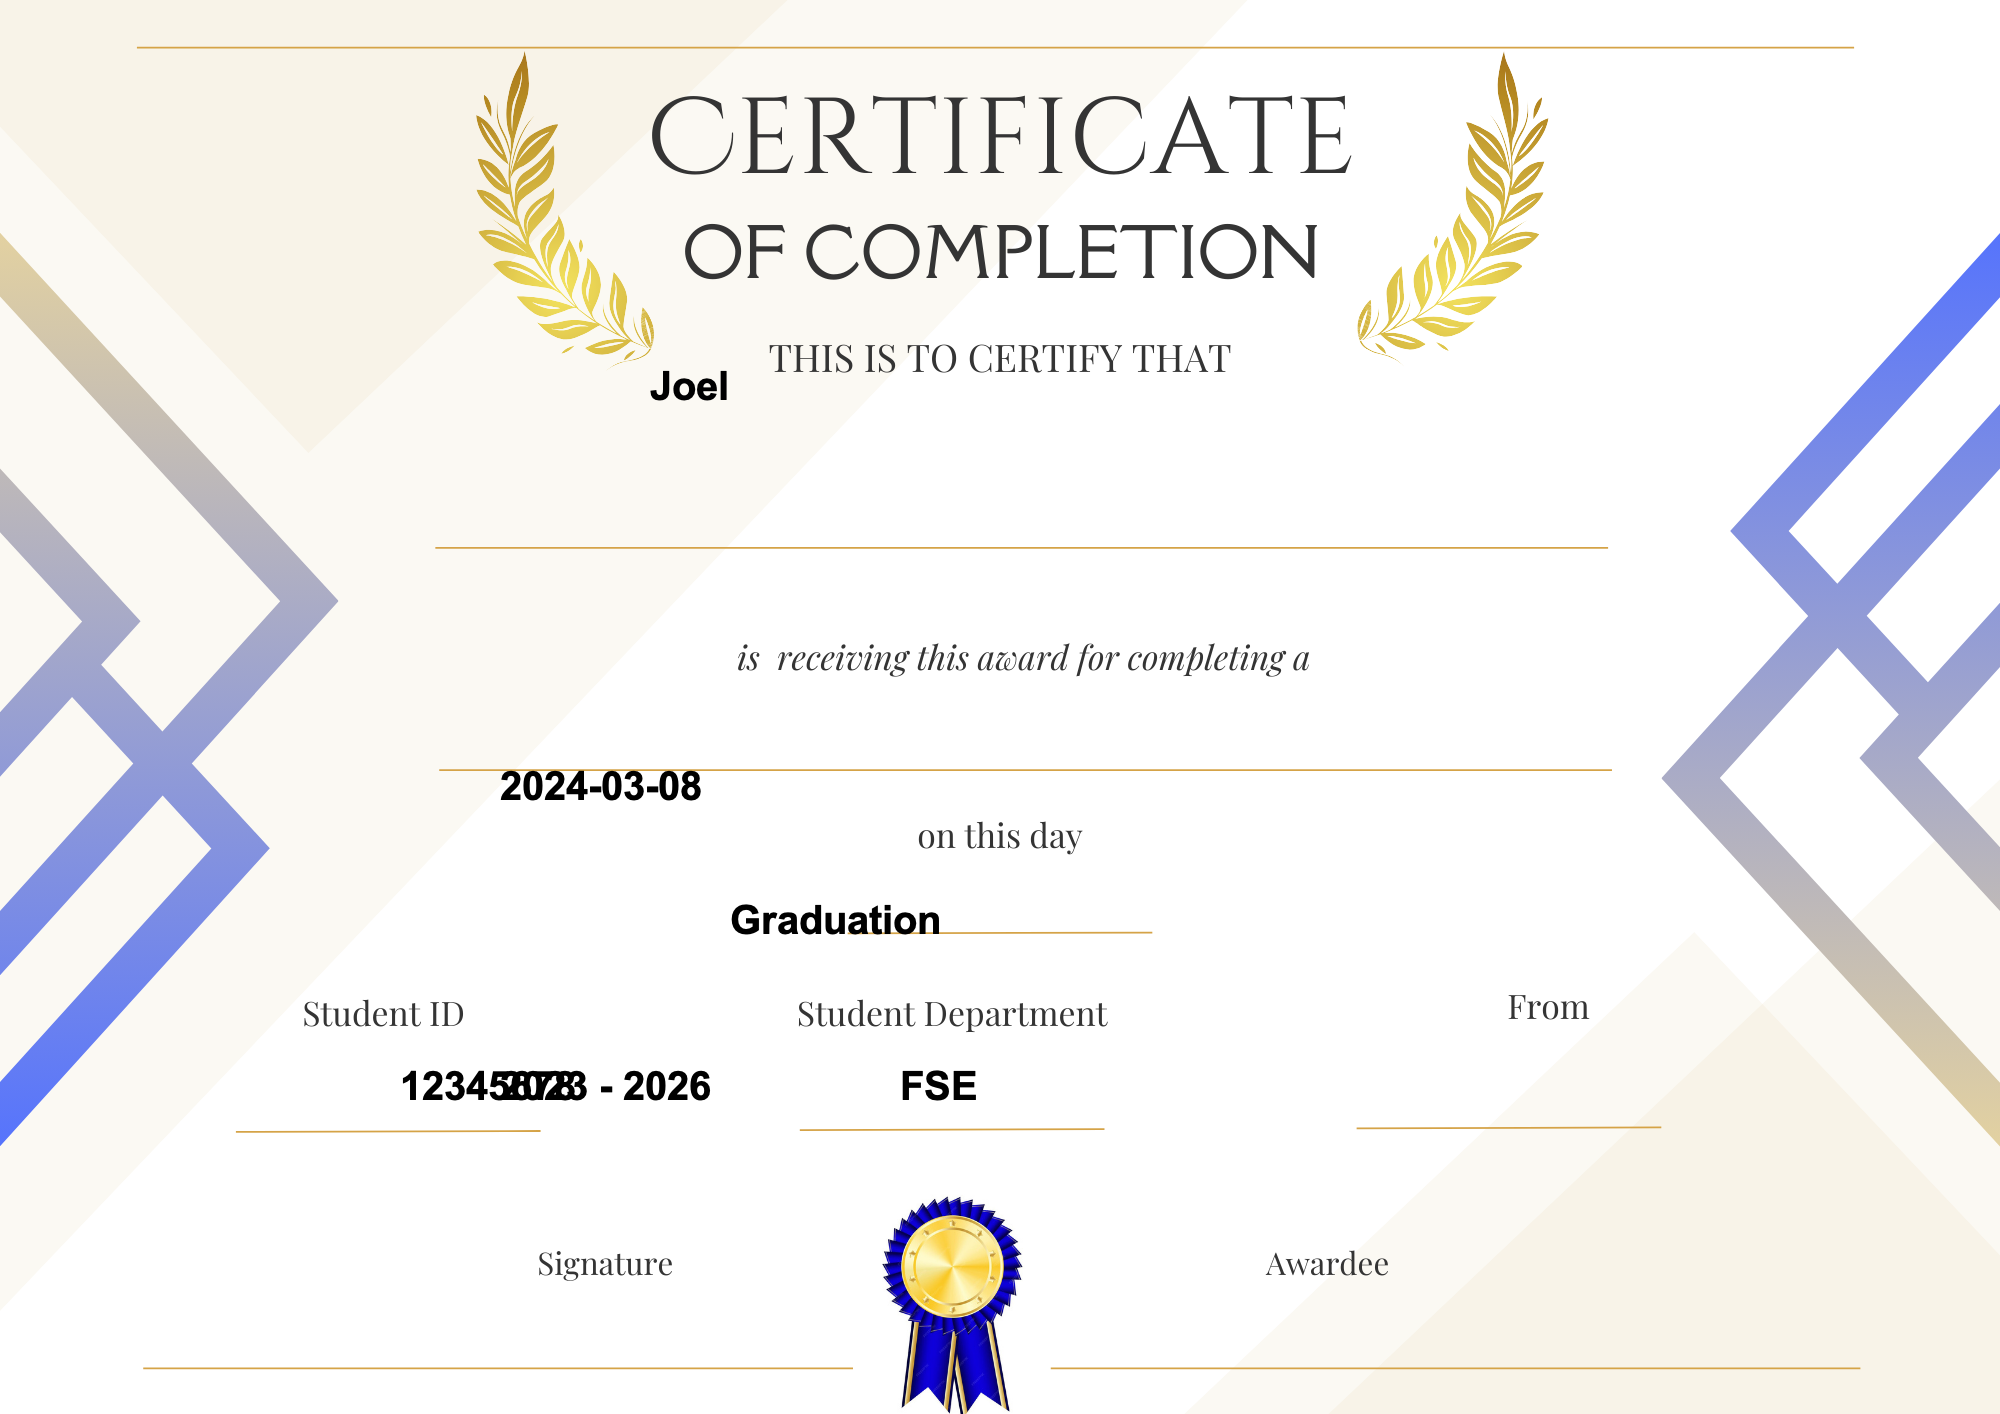
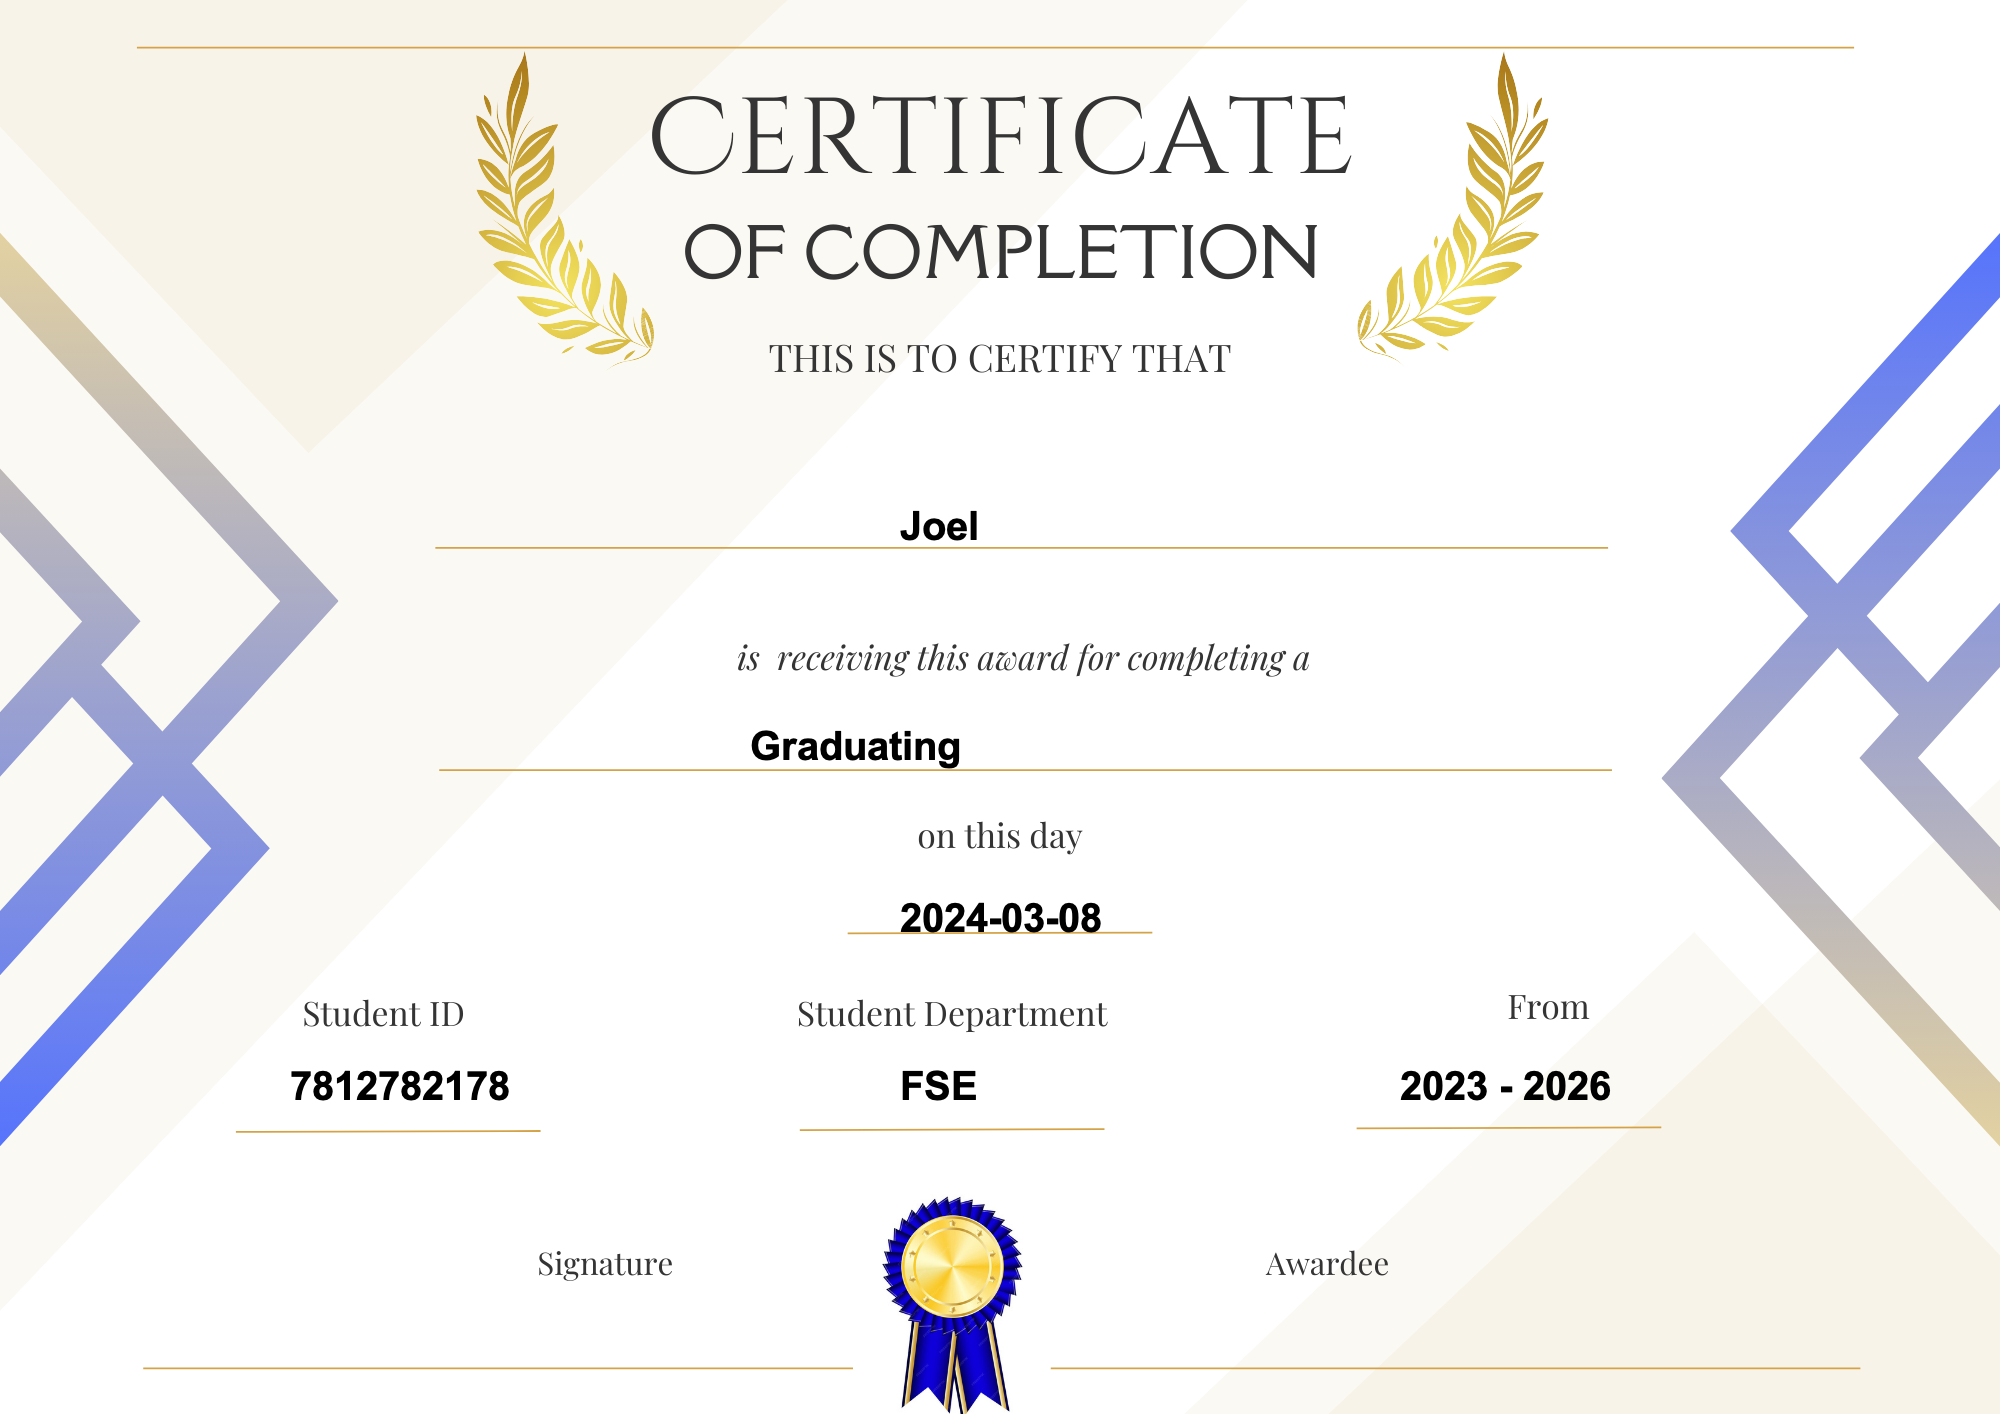
Allignment Complete
It looks okay now, would prolly add some other stuff

diff --git a/CertificateGeneratorGUI/src/CertificateGenerator/SelectTemplate.java b/CertificateGeneratorGUI/src/CertificateGenerator/SelectTemplate.java
@@ -105,12 +105,12 @@ public class SelectTemplate extends javax.swing.JFrame {
             String endYear = studentDetails[4];
             String awardDate = studentDetails[5];
             String reasonForAward = studentDetails[6];
-            g.drawString(name, 650, 400);
+            g.drawString(name, 900, 540);
             g.drawString(dept,900,1100);
-            g.drawString(id,400,1100);
-            g.drawString(startYear +  " - " + endYear ,500,1100);
-            g.drawString(awardDate, 500, 800);
-            g.drawString(reasonForAward, 730,934);
+            g.drawString(id,290,1100);
+            g.drawString(startYear +  " - " + endYear ,1400,1100);
+            g.drawString(awardDate, 900, 932); 
+            g.drawString(reasonForAward, 750,760); 
 
             
             //Save the new certificate
